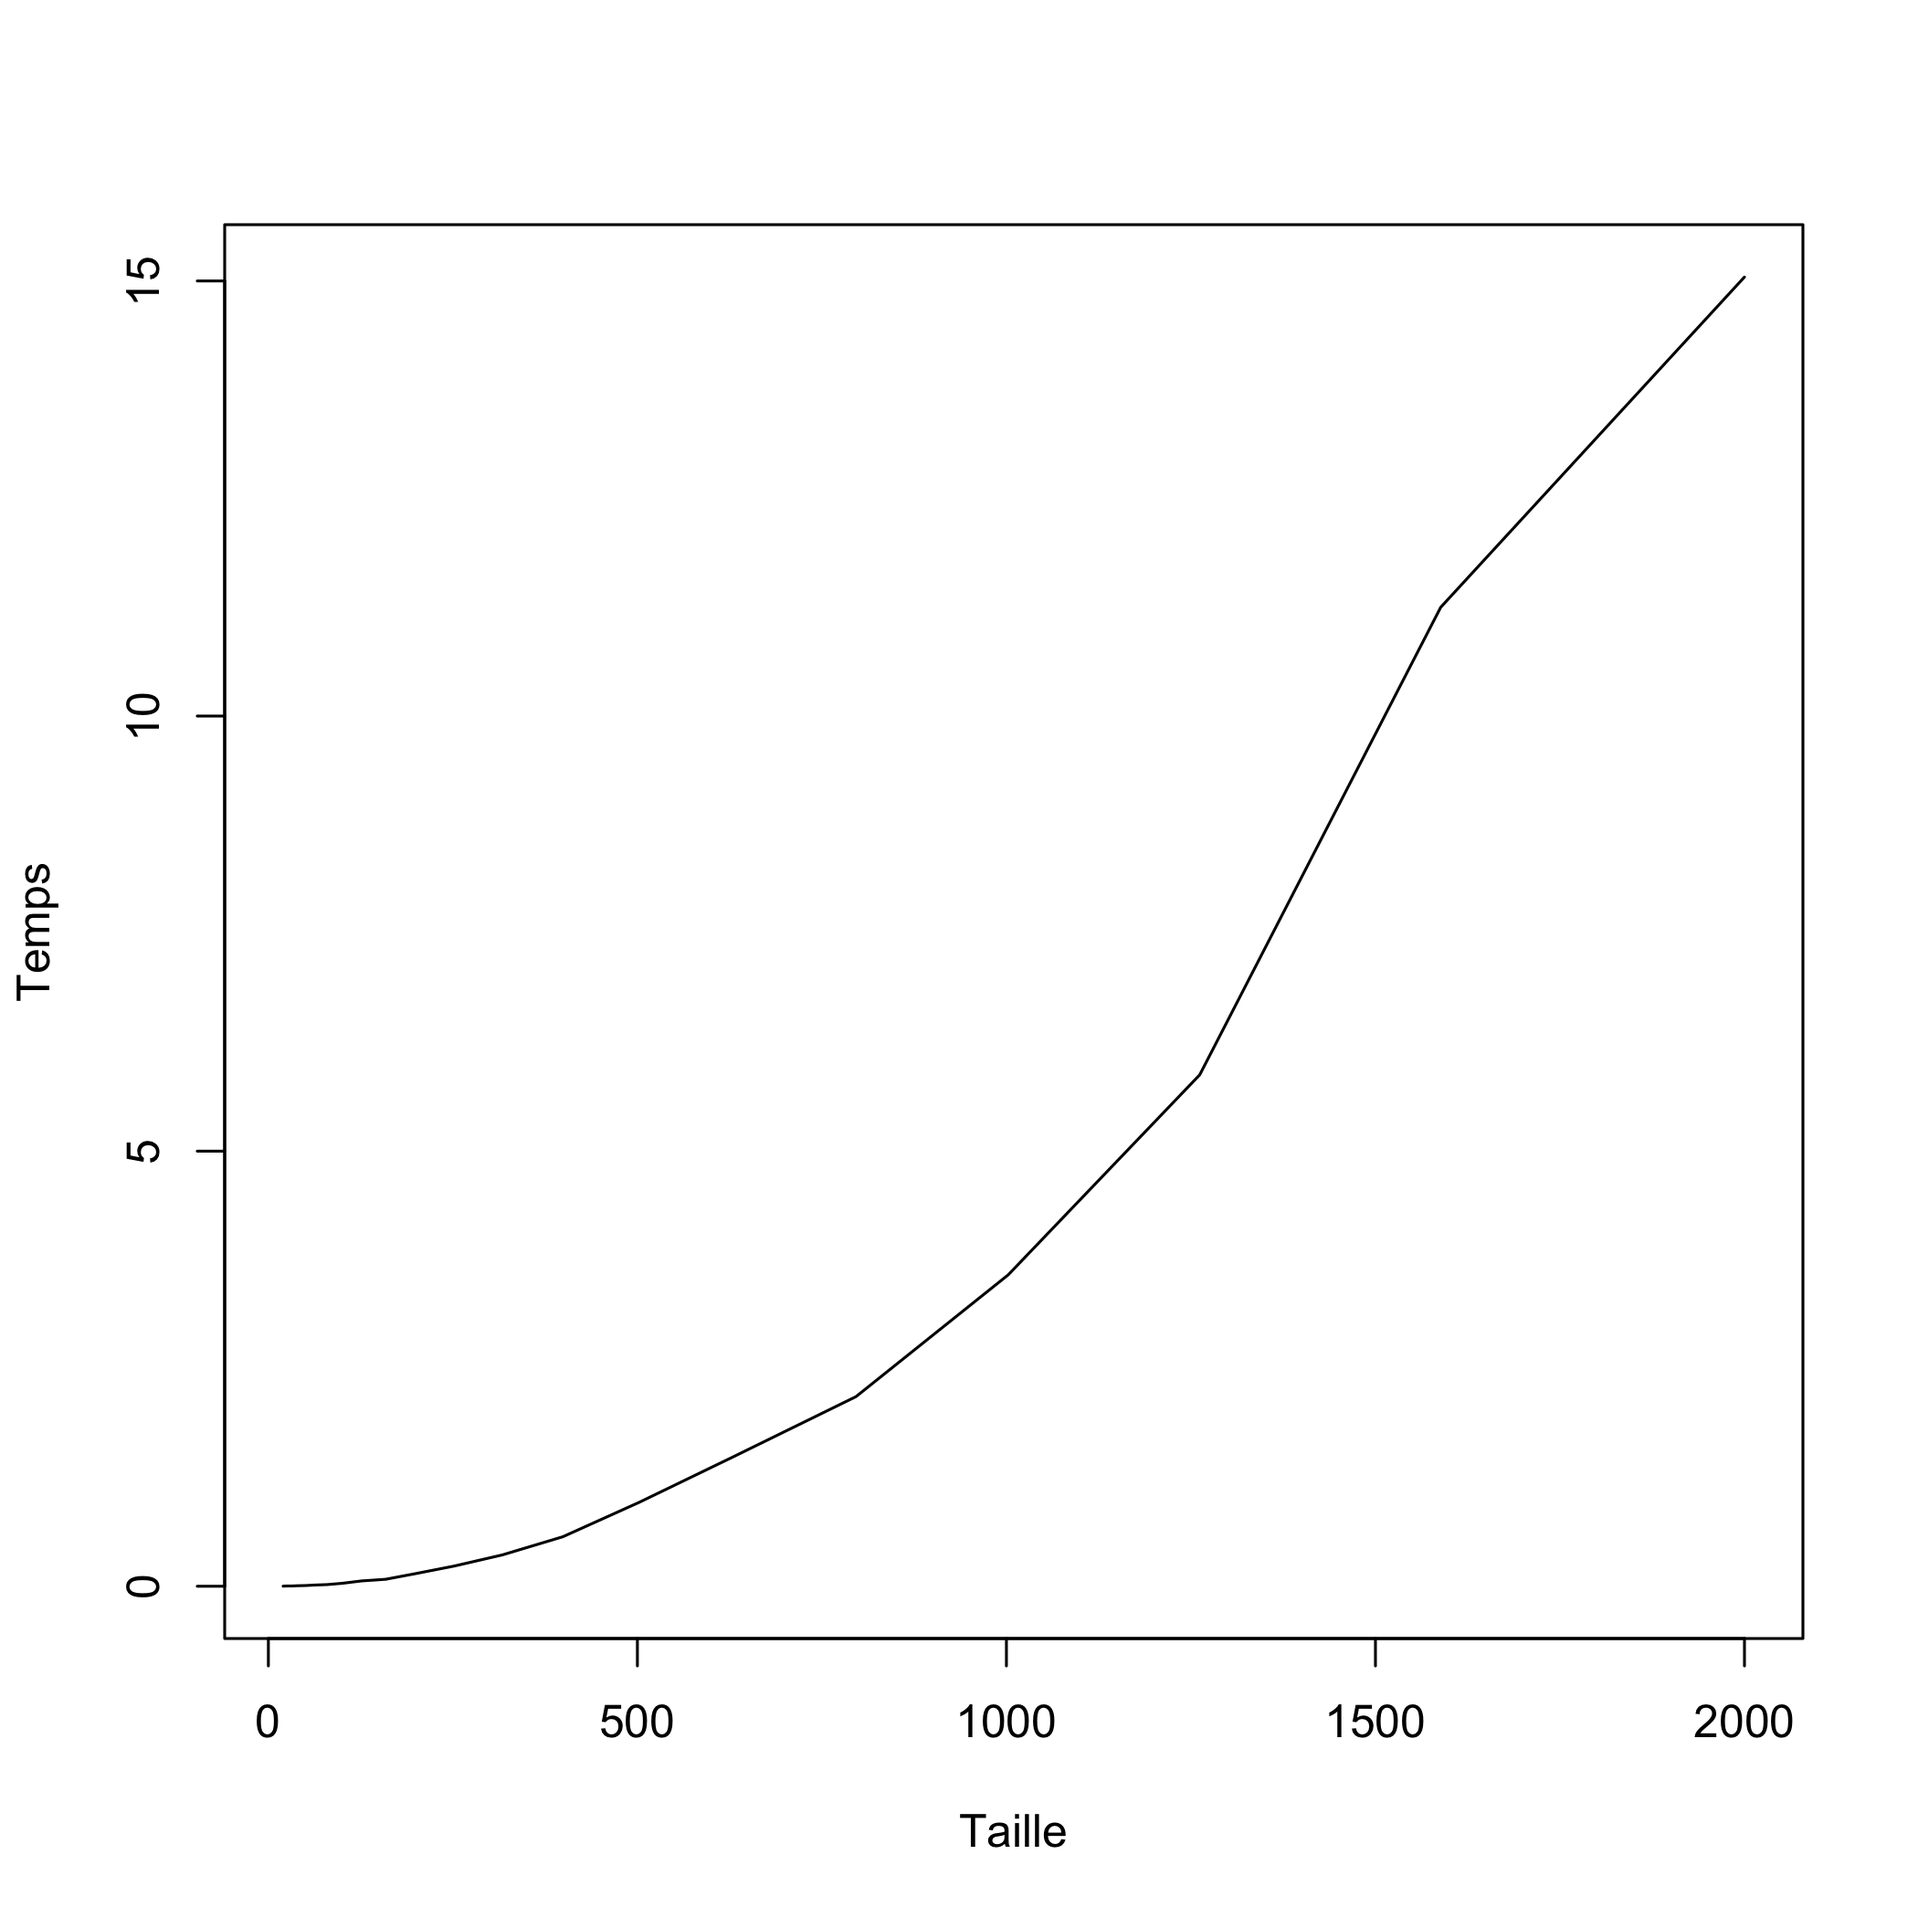
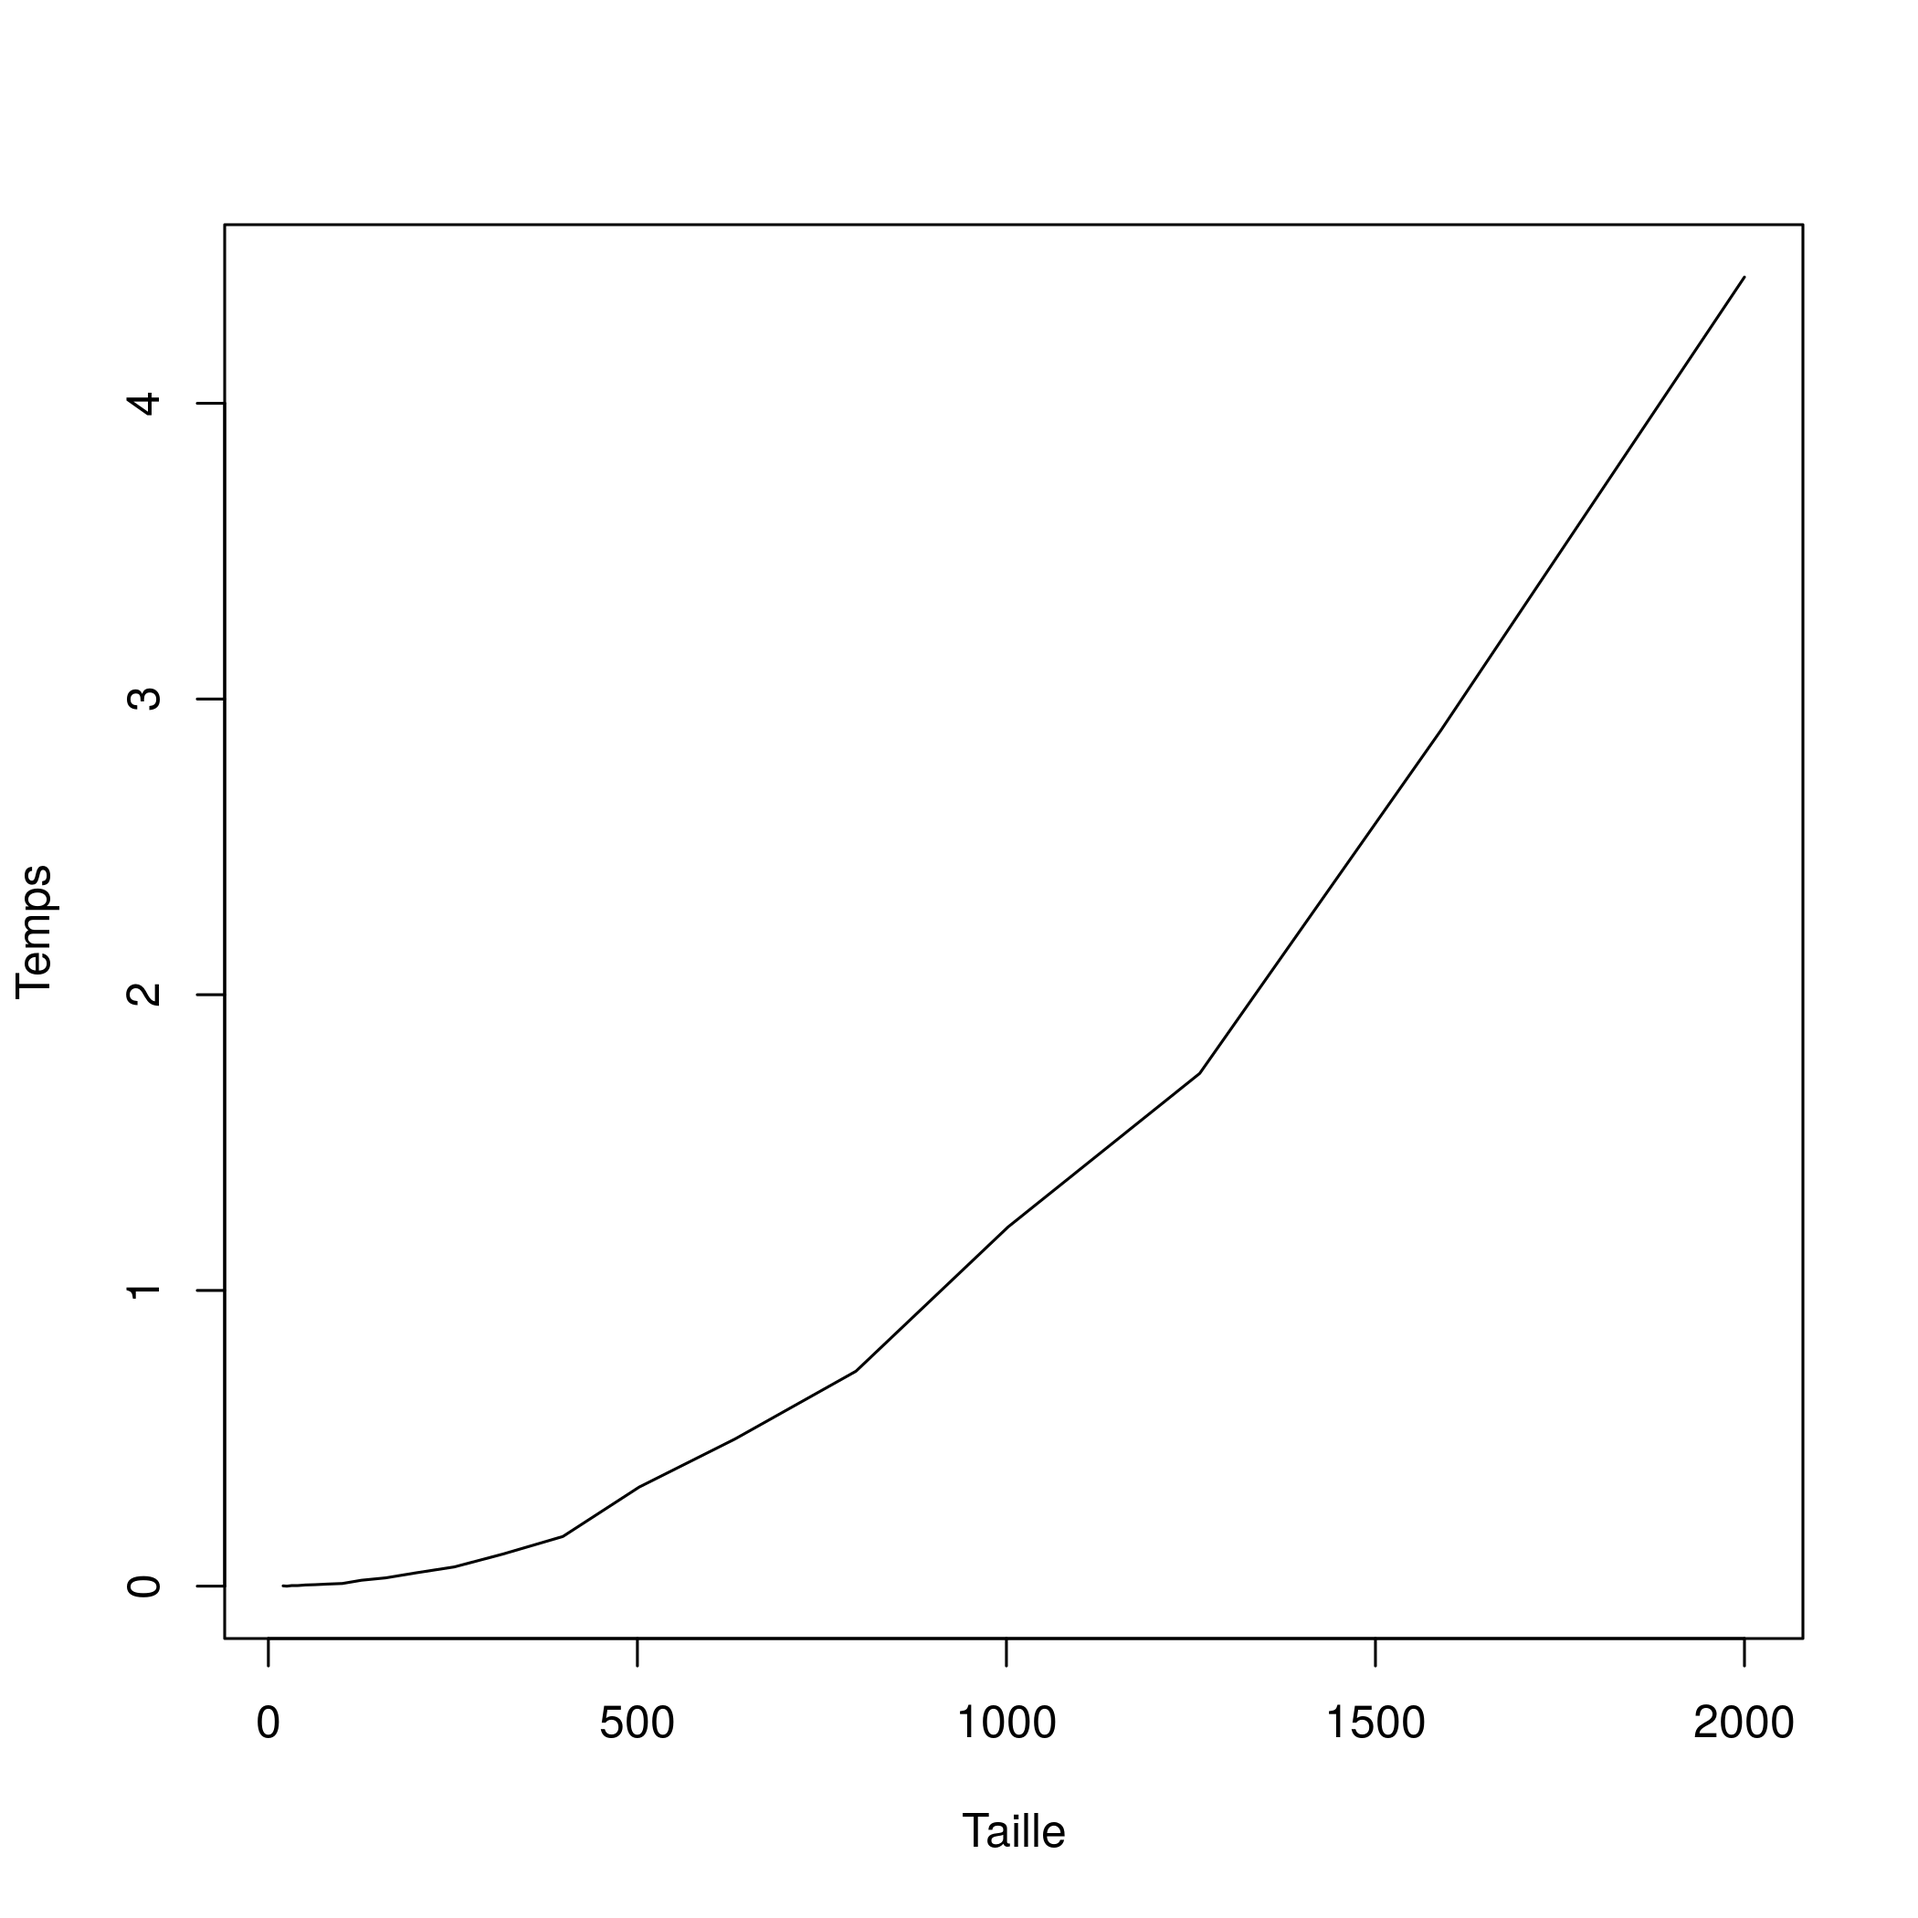
compilation

diff --git a/cours5/pres/index.html b/cours5/pres/index.html
@@ -230,7 +230,7 @@ tirage = function(n, cartes) {
 tirage(3, cartes)
 </code></pre>
 
-<pre><code>## [1] &quot;4 - trèfle&quot; &quot;7 - pique&quot;  &quot;3 - pique&quot;
+<pre><code>## [1] &quot;6 - carreau&quot; &quot;5 - carreau&quot; &quot;as - pique&quot;
 </code></pre>
 
   </article>
@@ -329,7 +329,7 @@ tirage(3, cartes)
      <pre><code class="r">rbinom(n = 10, size = 1, prob = 0.5)
 </code></pre>
 
-<pre><code>##  [1] 0 1 1 0 0 1 0 1 1 1
+<pre><code>##  [1] 1 0 1 0 1 0 0 0 1 0
 </code></pre>
 
     </div>
@@ -355,10 +355,10 @@ tirage(3, cartes)
 <pre><code>##      [,1] [,2] [,3]
 ## [1,]    0    0    0
 ## [2,]    0    0    0
-## [3,]    1    0    0
+## [3,]    0    0    1
 ## [4,]    0    0    0
-## [5,]    0    1    0
-## [6,]    0    0    1
+## [5,]    0    0    0
+## [6,]    1    1    0
 </code></pre>
 
     </div>
@@ -576,20 +576,21 @@ res
      <pre><code class="r">nsteps = 20
 xy = matrix(0,nr = 21, nc = 2)
 xy[1,] = c(0,0)
-direction = 90
+direction = 0
+set.seed(2)
 for(step in 2:(nsteps+1)) {
-    # Son chemin en X
-    if(runif(1,0,1) &lt; 0.5){
-      xy[step,1] = xy[step-1,1] + 250
-    } else {
-      xy[step,1] = xy[step-1,1] - 250}
-
-    # Son chemin en Y
-    if(runif(1,0,1) &lt; 0.5){
-      xy[step,2] = xy[step-1,2] + 250
-    } else {
-      xy[step,2] = xy[step-1,2] - 250
+    # Ḑe quel côté tourner ?
+    if(runif(1,0,1) &lt; 0.5) {
+      # Tourne à droite
+      direction = direction + pi/2 
     }
+    else {
+      # Tourne à gauche  
+      direction = direction - pi/2
+    }
+    # Calcul des nouvelles coordonnées
+    xy[step,1] = xy[step-1,1] + sin(direction)*250 
+    xy[step,2] = xy[step-1,2] + cos(direction)*250 
 }
 </code></pre>
 
@@ -669,7 +670,7 @@ cump
 alea
 </code></pre>
 
-<pre><code>## [1] 0.6470602
+<pre><code>## [1] 0.6618988
 </code></pre>
 
 <pre><code class="r">n_etats &lt;- 5; i = 1; plus_petit = FALSE
@@ -707,7 +708,7 @@ decision
 tirage(p)
 </code></pre>
 
-<pre><code>## [1] &quot;B&quot;
+<pre><code>## [1] &quot;E&quot;
 </code></pre>
 
   </article>
@@ -877,14 +878,14 @@ system.time(sort(x))
 </code></pre>
 
 <pre><code>##    user  system elapsed 
-##       0       0       0
+##   0.000   0.000   0.001
 </code></pre>
 
 <pre><code class="r">system.time(tri(x))
 </code></pre>
 
 <pre><code>##    user  system elapsed 
-##   4.225   0.054   5.014
+##   1.208   0.000   1.208
 </code></pre>
 
   </article>
@@ -941,14 +942,14 @@ system.time(f1(x))
 </code></pre>
 
 <pre><code>##    user  system elapsed 
-##   1.985   0.015   2.005
+##   0.732   0.000   0.739
 </code></pre>
 
 <pre><code class="r">system.time(f2(x))
 </code></pre>
 
 <pre><code>##    user  system elapsed 
-##   0.036   0.004   0.040
+##   0.020   0.000   0.021
 </code></pre>
 
     </div>
@@ -981,11 +982,11 @@ system.time(f1(X))
 </code></pre>
 
 <pre><code>##    user  system elapsed 
-##   0.001   0.001   0.000 
+##       0       0       0 
 ##    user  system elapsed 
-##   0.001   0.000   0.001 
+##       0       0       0 
 ##    user  system elapsed 
-##   2.269   0.009   2.287
+##   1.112   0.004   1.115
 </code></pre>
 
     </div>
@@ -1078,14 +1079,10 @@ system.time(f1(X))
     <div class='left' style='float:left;width:48%'>
      <pre><code class="r">coordx &lt;- seq(0,180,20)
 coordy &lt;- seq(0,980,20)
-
-paysage &lt;- tapply(etats,
-    INDEX = quadrats[,c(1:2)],sum)
-image(coordx, coordy,Z)
-
+paysage &lt;- tapply(etats,INDEX = quadrats[,c(1:2)],sum)
 par(mar = c(4,4,3,0.5))
-image(x=coordx,y=coordy,z=paysage,xlab=NULL,
-    ylab=NULL,col=c(&quot;black&quot;,&quot;orange&quot;,&quot;darkcyan&quot;,&quot;palegreen3&quot;))
+image(x=coordx,y=coordy,z=paysage,xlab=NULL,ylab=NULL,
+    col=c(&quot;black&quot;,&quot;orange&quot;,&quot;darkcyan&quot;,&quot;palegreen3&quot;))
 </code></pre>
 
     </div>

diff --git a/cours5/pres/index.md b/cours5/pres/index.md
@@ -121,7 +121,7 @@ tirage(3, cartes)
 ```
 
 ```
-## [1] "4 - trèfle" "7 - pique"  "3 - pique"
+## [1] "6 - carreau" "5 - carreau" "as - pique"
 ```
 
 ---
@@ -193,7 +193,7 @@ rbinom(n = 10, size = 1, prob = 0.5)
 ```
 
 ```
-##  [1] 0 1 1 0 0 1 0 1 1 1
+##  [1] 1 0 1 0 1 0 0 0 1 0
 ```
 
 --- &twocol
@@ -218,10 +218,10 @@ rmultinom(n = 3, size = 1, prob = rep(1/6, 6))
 ##      [,1] [,2] [,3]
 ## [1,]    0    0    0
 ## [2,]    0    0    0
-## [3,]    1    0    0
+## [3,]    0    0    1
 ## [4,]    0    0    0
-## [5,]    0    1    0
-## [6,]    0    0    1
+## [5,]    0    0    0
+## [6,]    1    1    0
 ```
 
 --- &twocolw w1:40% w2:60%
@@ -368,20 +368,21 @@ Calculez la distance parcourue en X et en Y, puis reprenez votre calcul une cent
 nsteps = 20
 xy = matrix(0,nr = 21, nc = 2)
 xy[1,] = c(0,0)
-direction = 90
+direction = 0
+set.seed(2)
 for(step in 2:(nsteps+1)) {
-    # Son chemin en X
-    if(runif(1,0,1) < 0.5){
-      xy[step,1] = xy[step-1,1] + 250
-    } else {
-      xy[step,1] = xy[step-1,1] - 250}
-
-    # Son chemin en Y
-    if(runif(1,0,1) < 0.5){
-      xy[step,2] = xy[step-1,2] + 250
-    } else {
-      xy[step,2] = xy[step-1,2] - 250
+    # Ḑe quel côté tourner ?
+    if(runif(1,0,1) < 0.5) {
+      # Tourne à droite
+      direction = direction + pi/2 
     }
+    else {
+      # Tourne à gauche  
+      direction = direction - pi/2
+    }
+    # Calcul des nouvelles coordonnées
+    xy[step,1] = xy[step-1,1] + sin(direction)*250 
+    xy[step,2] = xy[step-1,2] + cos(direction)*250 
 }
 ```
 
@@ -442,7 +443,7 @@ alea
 ```
 
 ```
-## [1] 0.6470602
+## [1] 0.6618988
 ```
 
 ```r
@@ -478,7 +479,7 @@ tirage(p)
 ```
 
 ```
-## [1] "B"
+## [1] "E"
 ```
 
 ---
@@ -591,7 +592,7 @@ system.time(sort(x))
 
 ```
 ##    user  system elapsed 
-##       0       0       0
+##   0.000   0.000   0.001
 ```
 
 ```r
@@ -600,7 +601,7 @@ system.time(tri(x))
 
 ```
 ##    user  system elapsed 
-##   4.225   0.054   5.014
+##   1.208   0.000   1.208
 ```
 
 ---&twocol
@@ -657,7 +658,7 @@ system.time(f1(x))
 
 ```
 ##    user  system elapsed 
-##   1.985   0.015   2.005
+##   0.732   0.000   0.739
 ```
 
 ```r
@@ -666,7 +667,7 @@ system.time(f2(x))
 
 ```
 ##    user  system elapsed 
-##   0.036   0.004   0.040
+##   0.020   0.000   0.021
 ```
 
 ---&twocol
@@ -700,11 +701,11 @@ system.time(f1(X))
 
 ```
 ##    user  system elapsed 
-##   0.001   0.001   0.000 
+##       0       0       0 
 ##    user  system elapsed 
-##   0.001   0.000   0.001 
+##       0       0       0 
 ##    user  system elapsed 
-##   2.269   0.009   2.287
+##   1.112   0.004   1.115
 ```
 
 ---.transition
@@ -757,14 +758,10 @@ system.time(f1(X))
 ```r
 coordx <- seq(0,180,20)
 coordy <- seq(0,980,20)
-
-paysage <- tapply(etats,
-	INDEX = quadrats[,c(1:2)],sum)
-image(coordx, coordy,Z)
-
+paysage <- tapply(etats,INDEX = quadrats[,c(1:2)],sum)
 par(mar = c(4,4,3,0.5))
-image(x=coordx,y=coordy,z=paysage,xlab=NULL,
-	ylab=NULL,col=c("black","orange","darkcyan","palegreen3"))
+image(x=coordx,y=coordy,z=paysage,xlab=NULL,ylab=NULL,
+	col=c("black","orange","darkcyan","palegreen3"))
 ```
 
 *** =right
